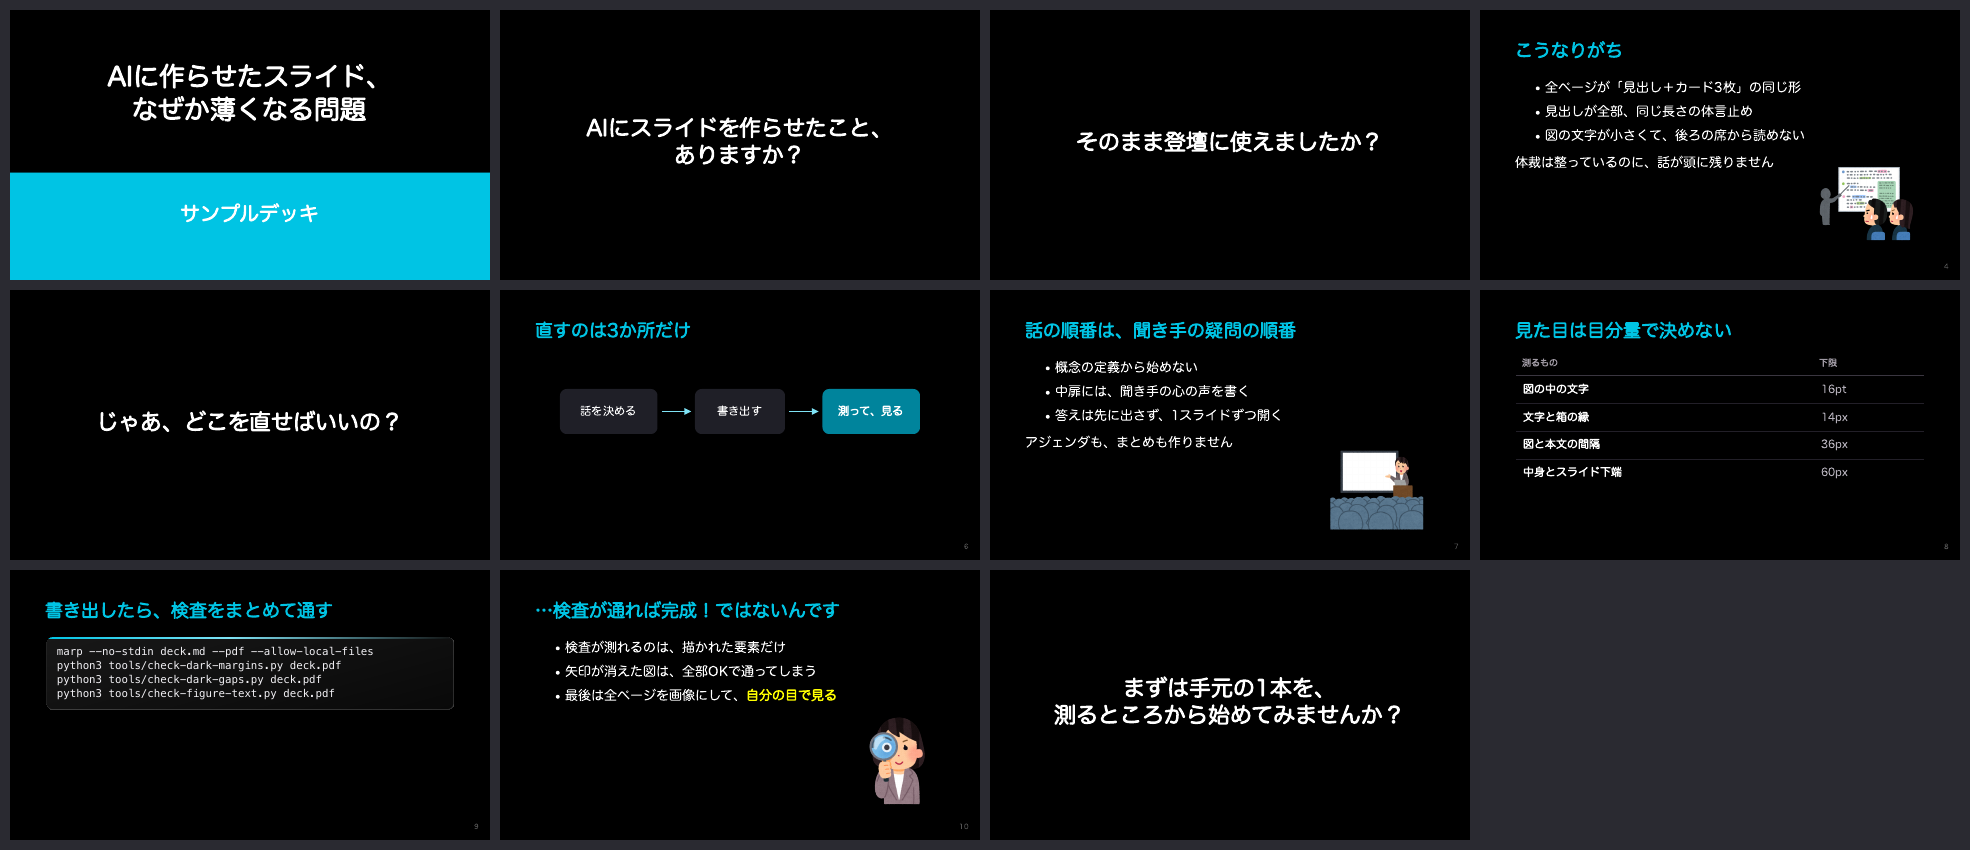
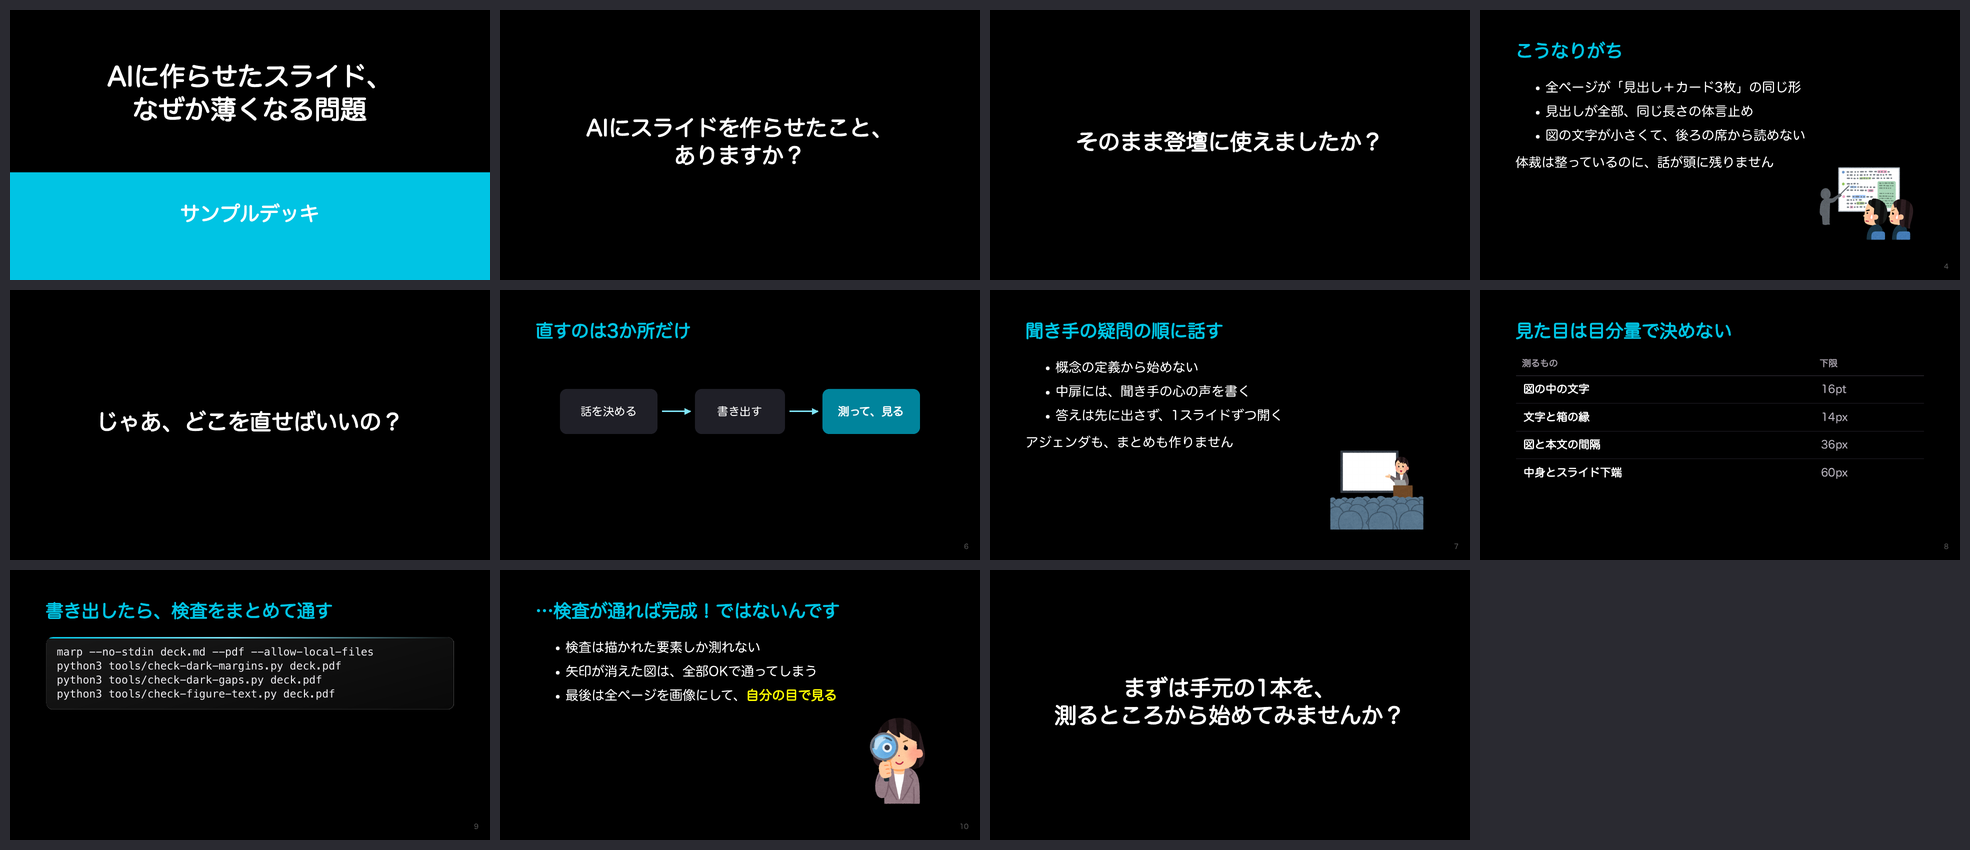
文の型を数える検査ツールと、結論の箱・手順スライド・挿絵の規則を追加し、入れ方を頼む形に変更

diff --git a/tools/check-ai-smell.py b/tools/check-ai-smell.py
@@ -1,0 +1,116 @@
+#!/usr/bin/env python3
+"""スライド原稿のうち、書き換えたスライドだけに「機械が書いた文」の型を当てる。
+
+デッキ全体へ当てると、話し手が自分で書いた既存のスライドまで大量に引っかかり、検査が使われなくなる。
+そこで git の HEAD 版と比べ、変わったスライドだけを見る。新しく書いた文に毎回当たるので、
+「指摘された箇所は直したが、新しく書き足した文で同じ型が再発する」を止められる。
+
+    python3 tools/check-ai-smell.py deck.md          # HEAD から変わったスライドだけ
+    python3 tools/check-ai-smell.py deck.md --all    # 全スライド（新しいデッキ用）
+
+NG が1件でもあれば終了コード1を返す。
+"""
+import re
+import subprocess
+import sys
+from pathlib import Path
+
+# (名前, 正規表現, 直し方)
+PATTERNS = [
+    ("キメ構文", r"のは、|のが、", "「〜のは◯◯です」。主語を先頭へ戻して普通の文にする"),
+    ("決め台詞", r"これが[^。]{0,20}です|それが[^。]{0,20}です", "「これが〜です」。抽象名詞で包み直さず、具体のまま終える"),
+    ("過大な効能", r"だけで[^。]{0,20}ます|やすくなります|やすくなる", "「これだけで〜できます」型。具体的な結果に置き換える"),
+    ("終助詞", r"ですよね|ますよね|でしょうね", "地の文に終助詞を置かない"),
+    ("見出しの読点タメ", r"^#+ .{1,18}は、", "見出しを「〜は、〜」でためない。読点を外すか普通の一文にする"),
+    ("ダッシュ", r"—|──|―", "使わない。読点か文の分割にする"),
+    ("定番の誇張語", r"一気に|驚くほど|劇的に|目に見えて|一撃で|腑に落ち", "平明な語に言い換える"),
+    ("行頭の太字ラベル", r"^\s*[-*] \*\*", "箇条書きごと地の文へ戻す"),
+]
+
+
+def slides(text):
+    return text.split("\n---\n")
+
+
+def visible(block):
+    """CSS・HTMLタグ・コメントを落として、画面に出る文字だけにする。"""
+    b = re.sub(r"<style scoped>.*?</style>", "", block, flags=re.S)
+    b = re.sub(r"<!--.*?-->", "", b, flags=re.S)
+    b = re.sub(r"<[^>]+>", "", b)
+    return [ln.rstrip() for ln in b.split("\n") if ln.strip()]
+
+
+def bullet_monotony(lines):
+    """箇条書きが3行以上続き、全部に読点が入っていたら型の反復とみなす。"""
+    run = []
+    for ln in lines:
+        if re.match(r"^\s*[-*] ", ln):
+            run.append(ln)
+        else:
+            if len(run) >= 3 and all("、" in x for x in run):
+                return run
+            run = []
+    if len(run) >= 3 and all("、" in x for x in run):
+        return run
+    return None
+
+
+def main():
+    args = [a for a in sys.argv[1:] if not a.startswith("--")]
+    check_all = "--all" in sys.argv
+    if not args:
+        print(__doc__)
+        return 2
+    path = Path(args[0])
+    now = slides(path.read_text(encoding="utf-8"))
+
+    targets = list(range(1, len(now)))
+    if not check_all:
+        repo = subprocess.run(["git", "rev-parse", "--show-toplevel"], capture_output=True,
+                              text=True, cwd=path.resolve().parent).stdout.strip()
+        old = None
+        if repo:
+            rel = path.resolve().relative_to(repo).as_posix()
+            old = subprocess.run(["git", "show", f"HEAD:{rel}"], capture_output=True, text=True, cwd=repo)
+        if old is not None and old.returncode == 0:
+            before = set(slides(old.stdout))
+            targets = [i for i in range(1, len(now)) if now[i] not in before]
+            print(f"HEAD と比べて変わったスライド: {len(targets)}"
+                  f"{'（' + ', '.join('p%d' % i for i in targets) + '）' if targets else ''}")
+        else:
+            print("git の HEAD に無いファイルなので、全スライドを見る")
+
+    ng = 0
+    for i in targets:
+        lines = visible(now[i])
+        for ln in lines:
+            for name, pat, fix in PATTERNS:
+                if re.search(pat, ln):
+                    print(f"NG p{i} [{name}] {ln.strip()[:60]}\n      → {fix}")
+                    ng += 1
+        # 短く言い切って、次の文を指示語で受ける「タメ」
+        for j in range(len(lines) - 1):
+            cur, nxt = lines[j].strip(), lines[j + 1].strip()
+            if re.search(r"[うくすつぬむるい]。$", cur) and len(cur) <= 26 \
+               and re.match(r"^(そういう|こういう|そんな|こんな|これ|それ|その)", nxt):
+                print(f"NG p{i} [言い切りのタメ] {cur} → {nxt[:24]}\n"
+                      f"      → 1文につなげる。短く切って次の文を指示語で受けない")
+                ng += 1
+        cond = [ln for ln in lines if re.search(r"(と|ば|たら|なら|ので|ため|して)、", ln)]
+        if len(cond) >= 3:
+            print(f"NG p{i} [型の反復] 「条件＋読点＋帰結」の文が{len(cond)}つ\n"
+                  f"      → 言い切り・体言止め・問いかけを混ぜる: " + " / ".join(x.strip()[:22] for x in cond[:3]))
+            ng += 1
+        run = bullet_monotony(lines)
+        if run:
+            print(f"NG p{i} [型の反復] 箇条書き{len(run)}行が全部「〜、〜」で同じ拍\n"
+                  f"      → 1行は読点なしにするなど、形を混ぜる")
+            ng += 1
+
+    print(f"\n{len(targets)} スライド走査、NG {ng} 件" if ng else
+          f"\nOK: {len(targets)} スライド走査、型は見つからなかった")
+    return 1 if ng else 0
+
+
+if __name__ == "__main__":
+    sys.exit(main())

diff --git a/README.md b/README.md
@@ -17,15 +17,24 @@ AIにスライドを書かせると、体裁は整うのに話が薄くなりが
 | `tools/` | 書き出したPDFとSVGを実測する検査スクリプト |
 | `examples/sample` | 見本デッキ。`examples/broken` は検査が反応することを確かめるための、わざと崩した版 |
 
-## 使い方
+## 入れ方
 
-Claude Code で使うなら、`skills/` の3つを自分のスキル置き場へコピーします。
+Claude デスクトップアプリの「Code」タブ（または Claude Code）で、このURLを渡して頼むだけです。
 
-```bash
-cp -r skills/* ~/.claude/skills/
-```
+> https://github.com/minorun365/minorun-marp-skill のスキルを入れて
 
-テーマと検査スクリプトは、スライドを置くリポジトリへ `theme/` と `tools/` ごとコピーしてください。
+入れ終わったら新しいセッションを始め、「黒地のテーマで、勉強会の20分のスライドを作って」のように頼むと使われます。新しい版が出たときは「minorun-marp-skill を最新にして」で更新できます。
+
+## インストールを頼まれた Claude へ
+
+この節は Claude が読むための手順です。自分で入れる人も、この順に進めれば入れられます。
+
+1. リポジトリを `~/.claude/skill-repos/minorun-marp-skill` へ置く。無ければ `git clone`、あれば `git pull`
+2. `skills/` の3つ（`slide-story` `slide-figures` `slide-design-dark`）を `~/.claude/skills/` へコピーする。同じ名前があれば上書きする
+3. 書き出しと検査に使う道具があるかを確かめ、無いものを入れる。[Marp CLI](https://github.com/marp-team/marp-cli)（`npm i -g @marp-team/marp-cli`）、Google Chrome、poppler と mupdf-tools（macOS なら `brew install poppler mupdf-tools`）、Python 3 と Pillow。`check-svg-box-fit.mjs` は Marp CLI 同梱の puppeteer-core を借りるので、場所が違う環境では `MARP_NODE_MODULES` と `CHROME_PATH` で指定する
+4. 結果は、何が使えるようになったかと頼み方の例を、コマンドを見せずに平易な言葉で伝える
+
+スライドを作るときは、`~/.claude/skill-repos/minorun-marp-skill` から `theme/` と `tools/` を作業フォルダへコピーして使う。
 
 ```bash
 marp --no-stdin deck.md --pdf --theme theme/minorun-dark.css --allow-local-files
@@ -35,15 +44,8 @@ python3 tools/check-dark-gaps.py deck.pdf       # 図や箱と、隣の本文の
 python3 tools/check-figure-text.py deck.pdf     # 図の中の小さい文字、箱の縁に詰まった文字
 node tools/check-svg-box-fit.mjs images/*.svg   # SVGの文字が箱に収まっているか
 python3 tools/check-reuse-diff.py new.md old.md # 流用したスライドの、見出しと図の対応
+python3 tools/check-ai-smell.py deck.md         # 書き換えたスライドの文の型の反復
 ```
-
-検査スクリプトが使うもの:
-
-- [Marp CLI](https://github.com/marp-team/marp-cli)（`npm i -g @marp-team/marp-cli`）と Google Chrome
-- poppler（`pdftoppm` `pdfinfo`）と mupdf-tools（`mutool`）。macOS なら `brew install poppler mupdf-tools`
-- Python 3 と Pillow
-
-`check-svg-box-fit.mjs` は Marp CLI に同梱の puppeteer-core を借ります。場所が違う環境では `MARP_NODE_MODULES` と `CHROME_PATH` で指定できます。
 
 ## フォント
 

diff --git a/examples/sample/deck.md b/examples/sample/deck.md
@@ -74,7 +74,7 @@ img[alt~="center"] { display:block; margin:40px auto 44px; }
 
 ---
 
-# 話の順番は、聞き手の疑問の順番
+# 聞き手の疑問の順に話す
 
 - 概念の定義から始めない
 - 中扉には、聞き手の心の声を書く
@@ -114,7 +114,7 @@ python3 tools/check-figure-text.py deck.pdf
 
 # …検査が通れば完成！ではないんです
 
-- 検査が測れるのは、描かれた要素だけ
+- 検査は描かれた要素しか測れない
 - 矢印が消えた図は、全部OKで通ってしまう
 - 最後は全ページを画像にして、<strong>自分の目で見る</strong>
 
